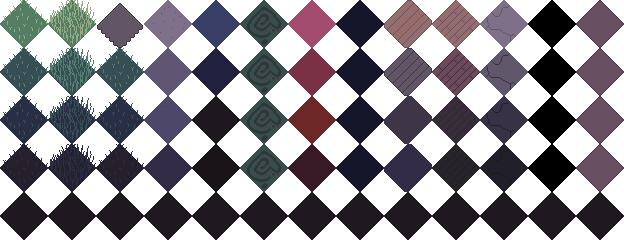
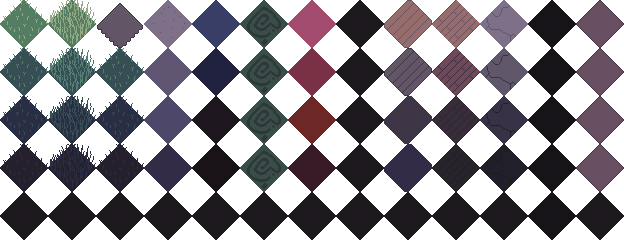
saving

Changed region(s): [[0.8221, 0.0, 0.9439, 0.7875]]

diff --git a/bleed-client/lib/core/buildBleed.dart b/bleed-client/lib/core/buildBleed.dart
@@ -1,4 +1,5 @@
 
+import 'package:bleed_client/constants/colours.dart';
 import 'package:flutter/material.dart';
 import 'package:lemon_engine/game.dart';
 
@@ -16,6 +17,7 @@ Widget buildBleed(){
     buildUI: buildUI,
     drawCanvas: drawCanvas,
     drawCanvasAfterUpdate: false,
+    backgroundColor: colours.black,
     buildLoadingScreen: buildLoadingScreen
   );
 }

diff --git a/bleed-client/lib/constants/colours.dart b/bleed-client/lib/constants/colours.dart
@@ -5,6 +5,9 @@ import 'package:flutter/rendering.dart';
 final _Colors colours = _Colors();
 
 class _Colors {
+
+  final Color black = Color.fromRGBO(24, 21, 26, 1);
+
   final Color redDarkest = Color.fromRGBO(66, 21, 46, 1);
   final Color redDark = Color.fromRGBO(174, 35, 52, 1);
   final Color orange = Color.fromRGBO(247, 150, 23, 1);
